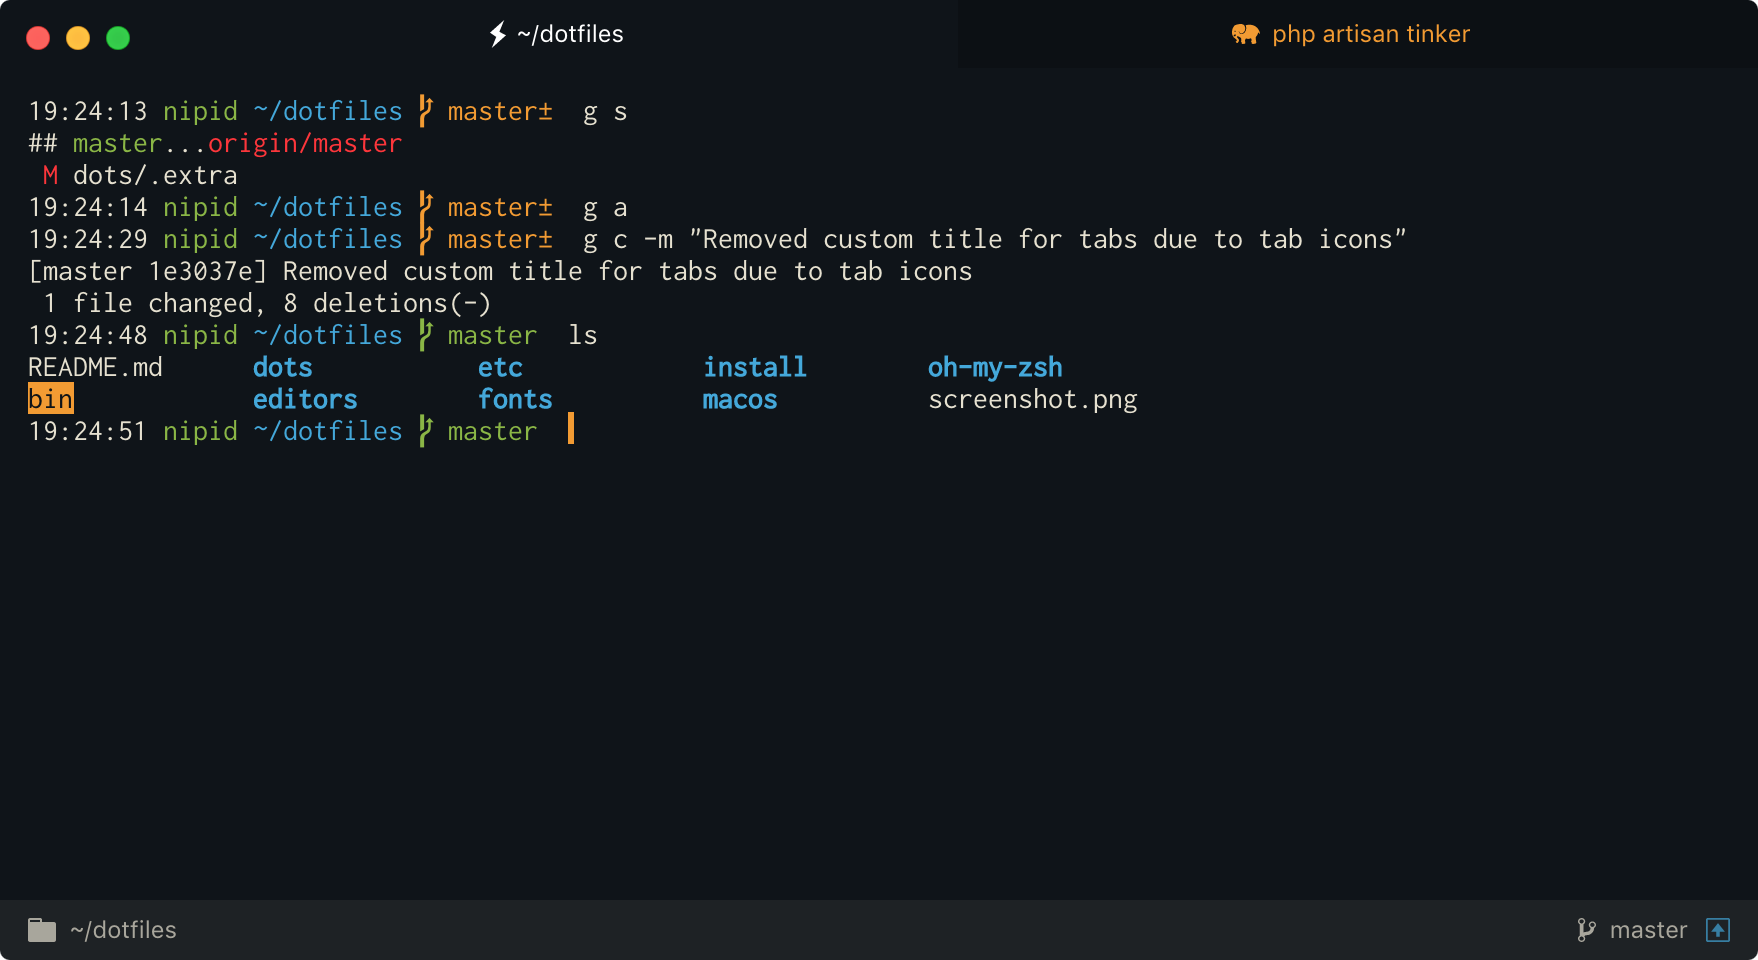
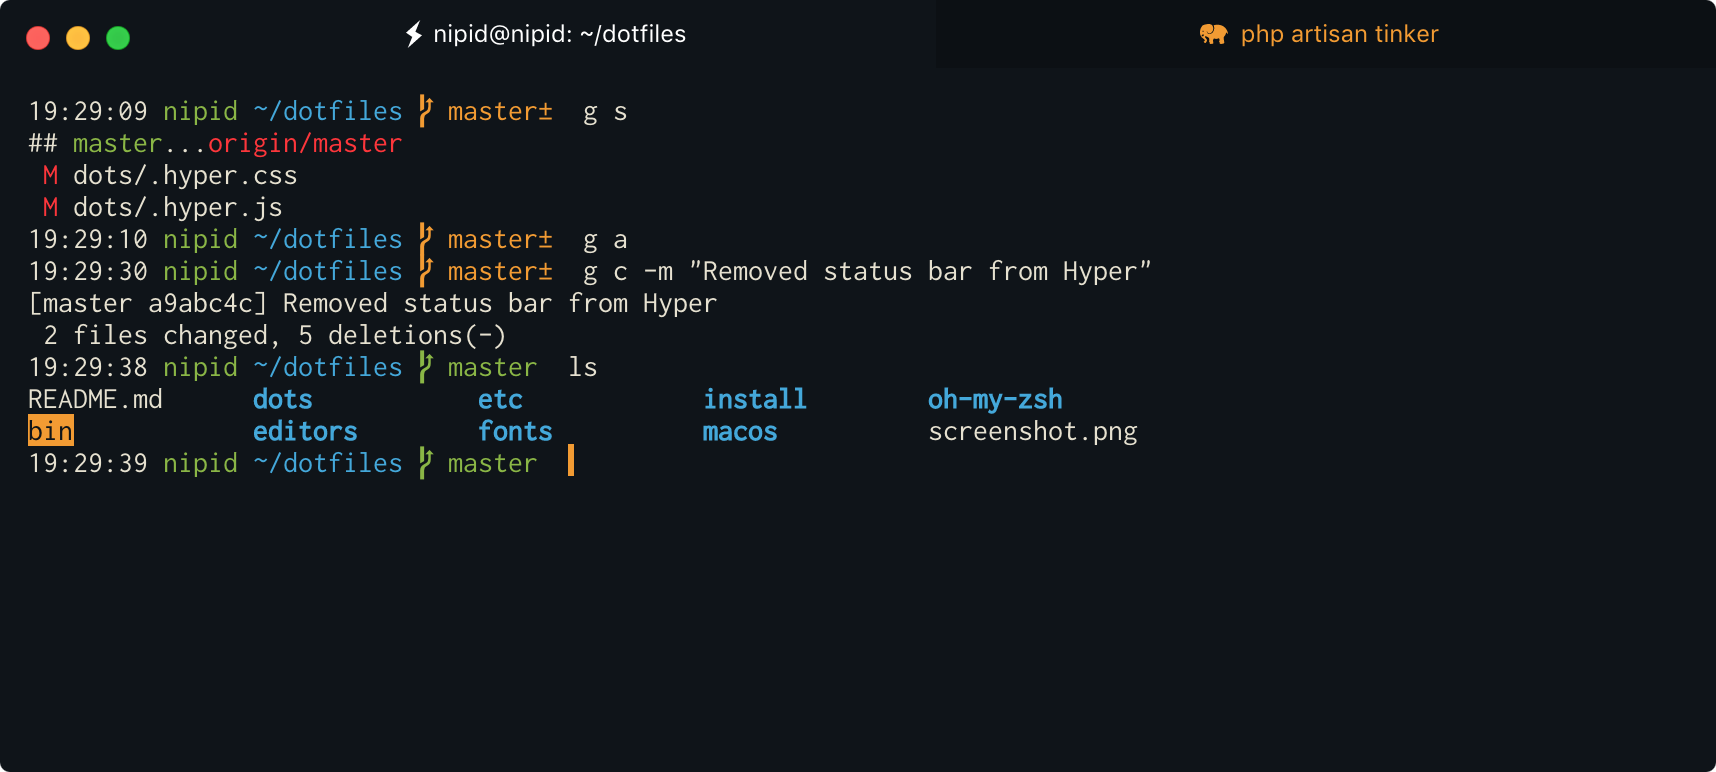
Updated screenshot & version

diff --git a/README.md b/README.md
@@ -27,7 +27,7 @@ Clone and install dotfiles:
 	
     git clone https://github.com/mihaliak/dotfiles.git ~/dotfiles
     cd ~/dotfiles
-    git checkout v3.1
+    git checkout v3.2
     cd ~/dotfiles/install
     chmod +wx install.sh
     chmod -R +wx ~/dotfiles/bin
